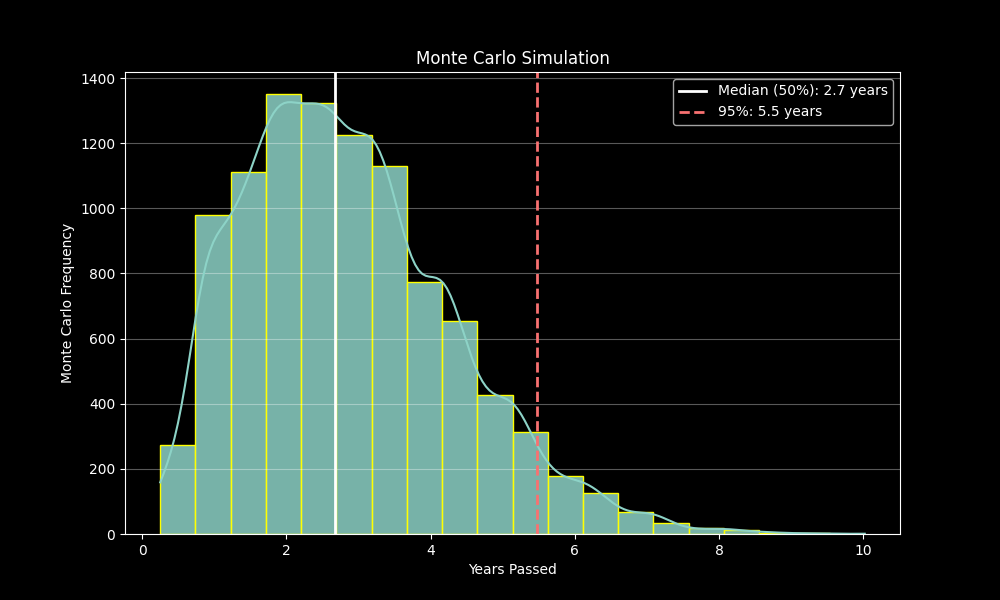
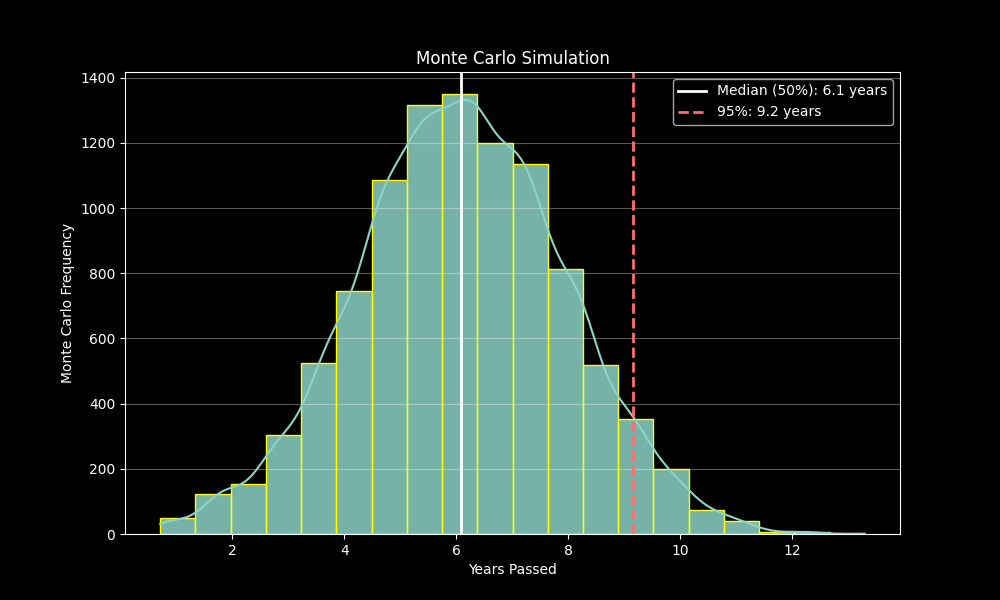
added eb3 factor for spillovers to make eb2 and eb3 relatively the same wait time

diff --git a/scripts/macros.py b/scripts/macros.py
@@ -3,12 +3,12 @@ import os
 # --- Simulation Configuration ---
 COUNTRY = "India"
 PREFERENCE = "EB3"
-TARGET_DATE = "2016-08-15"
-VISA_BULLETIN_DATE = "2013-11-15"
-WANT_BULLETIN = False
+TARGET_DATE = "2016-08-31"
+VISA_BULLETIN_DATE = "2013-07-15"
+WANT_BULLETIN = True
 SIMS = 10000
 N_YEARS = 100
-YEAR_LIMIT = 2.5
+YEAR_LIMIT = 5
 # --- Quota Constants ---
 TOTAL_GREENCARDS = 140_000
 COUNTRY_CAP = 0.07
@@ -27,7 +27,8 @@ SPILLOVER_RANGES = {
     "extreme": (100000, 160000)
 }
 SPILLOVER_PROBS = [0.3, 0.35, 0.25, 0.08, 0.02]
-
+EB3_SPILLOVER_LOWER_BOUND = 0.2
+EB3_SPILLOVER_UPPER_BOUND = 0.4
 # Dependency Ratio (Triangular Distribution)
 DEP_RATIO_LEFT = 1.9
 DEP_RATIO_RIGHT = 3.0

diff --git a/scripts/monte_carlo_visa_simulation.py b/scripts/monte_carlo_visa_simulation.py
@@ -48,7 +48,8 @@ class MonteCarloVisaSimulation:
         spillover_lower_bound = np.array([ranges[i][0] for i in choices])
         spillover_upper_bound = np.array([ranges[i][1] + 1 for i in choices])
         spillover_list = np.random.randint(spillover_lower_bound, spillover_upper_bound)
-
+        if self.preference == "EB3":
+            spillover_list = spillover_list * np.random.uniform(m.EB3_SPILLOVER_LOWER_BOUND, m.EB3_SPILLOVER_UPPER_BOUND)
         # Use macros for stochastic distributions
         dependancy_ratio = np.random.triangular(
             left=m.DEP_RATIO_LEFT, 
